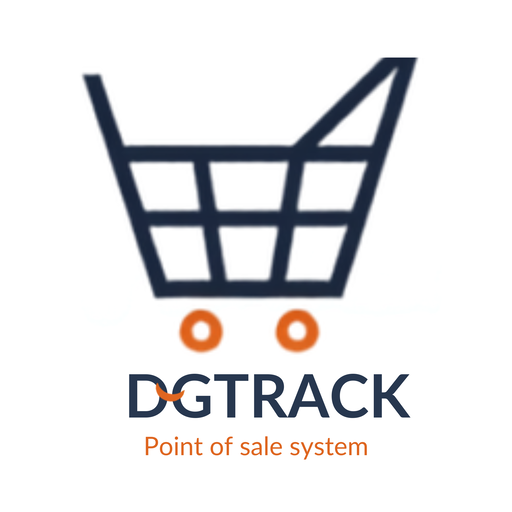
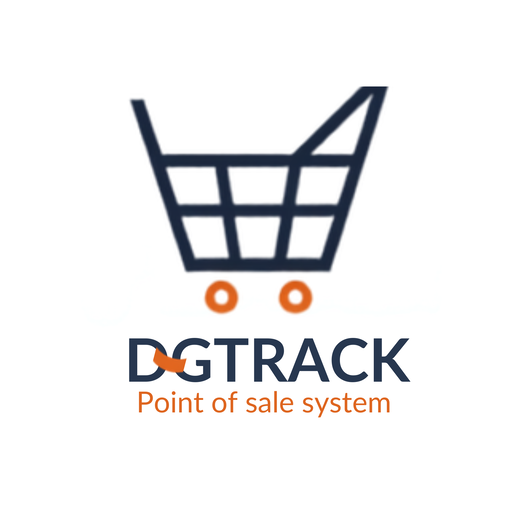
Add fastapi-mail

Changed region(s): [[0.1562, 0.0938, 0.8125, 0.8438], [0.2812, 0.8438, 0.7188, 0.9062]]

diff --git a/src/app/components/Inventorys.tsx b/src/app/components/Inventorys.tsx
@@ -42,7 +42,7 @@ export function Inventory() {
   const [products, setProducts] = useState<Product[]>([]);
   const [searchTerm, setSearchTerm] = useState("");
   const [expandedId, setExpandedId] = useState<number | null>(null);
-
+const [saving, setSaving] = useState(false);
   const [showAddModal, setShowAddModal] = useState(false);
   const [editProduct, setEditProduct] = useState<Product | null>(null);
 
@@ -52,11 +52,6 @@ export function Inventory() {
  const [viewerOpen, setViewerOpen] = useState(false);
 const [activeImage, setActiveImage] = useState<string>("");
 const [gallery, setGallery] = useState<string[]>([]);
-const openViewer = (image: string, images: string[]) => {
-  setActiveImage(image);
-  setGallery(images);
-  setViewerOpen(true);
-};
  // ✅ STATES INSIDE COMPONENT
   
    const [newProduct, setNewProduct] = useState<NewProduct>({
@@ -163,20 +158,23 @@ useEffect(() => {
   // ADD PRODUCT
   // =========================
  const addProduct = async () => {
+  if (saving) return;
+
+  setSaving(true);
+
   try {
     let imageUrl = "";
 
-    // Upload image to Supabase
-   if (newProduct.image) {
-  const fileName = `${Date.now()}-${newProduct.image.name}`;
+    if (newProduct.image) {
+      const fileName = `${Date.now()}-${newProduct.image.name}`;
 
- const { data } = supabase.storage
-  .from("products")
-  .getPublicUrl(fileName);
+      const { data } = supabase.storage
+        .from("products")
+        .getPublicUrl(fileName);
 
-imageUrl = data.publicUrl;
-}
-    // Save product in FastAPI database
+      imageUrl = data.publicUrl;
+    }
+
     const res = await createProduct({
       name: newProduct.name,
       cost: Number(newProduct.cost),
@@ -203,6 +201,8 @@ imageUrl = data.publicUrl;
     setShowAddModal(false);
   } catch (err) {
     console.error(err);
+  } finally {
+    setSaving(false);
   }
 };
  // =========================
@@ -551,11 +551,16 @@ if (loading) {
         </button>
 
         <button
-          onClick={addProduct}
-          className="px-6 py-2 bg-blue-600 text-white rounded"
-        >
-          Save Product
-        </button>
+        onClick={addProduct}
+        disabled={saving}
+        className={`px-6 py-2 rounded text-white ${
+          saving
+            ? "bg-gray-400 cursor-not-allowed"
+            : "bg-blue-600 hover:bg-blue-700"
+        }`}
+      >
+        {saving ? "Saving..." : "Save Product"}
+      </button>
       </div>
 
     </div>

diff --git a/vite.config.ts b/vite.config.ts
@@ -28,7 +28,7 @@ export default defineConfig({
       registerType: "autoUpdate",
 
       includeAssets: [
-        "favicon.ico",
+        "/favicon.ico",
         "apple-touch-icon.png"
       ],
 

diff --git a/posbackend/app/routes/product_routes.py b/posbackend/app/routes/product_routes.py
@@ -44,8 +44,34 @@ def get_products(
 def create_product(
     product: ProductCreate,
     db: Session = Depends(get_db),
-    user = Depends(get_current_user)
+    user=Depends(get_current_user)
 ):
+
+    # Check if product already exists (case insensitive)
+    existing = (
+        db.query(Product)
+        .filter(
+            Product.business_id == user["business_id"],
+            func.lower(Product.name) == product.name.lower()
+        )
+        .first()
+    )
+
+    if existing:
+        # Update existing product
+        existing.stock += product.stock
+        existing.cost = product.cost
+        existing.price = product.price
+        existing.category = product.category
+        existing.barcode = product.barcode
+        existing.image = product.image
+
+        db.commit()
+        db.refresh(existing)
+
+        return existing
+
+    # Otherwise create a new product
     new_product = Product(
         name=product.name,
         cost=product.cost,
@@ -54,8 +80,6 @@ def create_product(
         stock=product.stock,
         barcode=product.barcode,
         image=product.image,
-
-        # 🔥 ownership
         business_id=user["business_id"],
         created_by=user["id"],
         created_by_name=user.get("name")
@@ -66,6 +90,7 @@ def create_product(
     db.refresh(new_product)
 
     return new_product
+
 # =========================
 # UPDATE PRODUCT
 # =========================